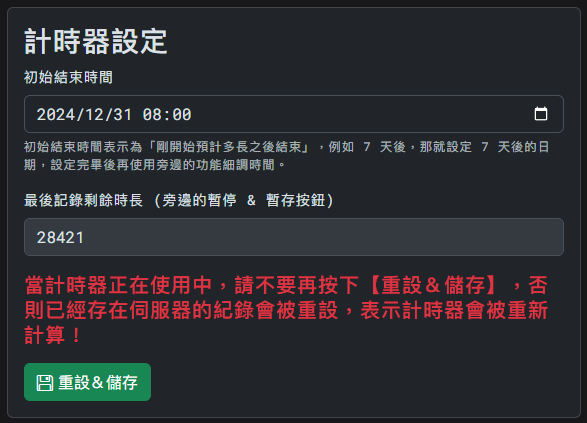
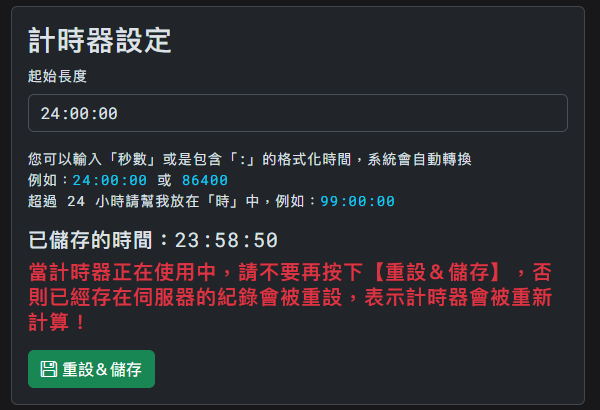
update timer start time

diff --git a/docs/features/timer.md b/docs/features/timer.md
@@ -24,11 +24,21 @@
 ![Image](/images/features/timer-6.png)
 
 ## 計時器設定
-【一定要先設定】初始結束時間  
-可以先設後面三天、七天、兩個禮拜，再用最左側的篡改時間進行微調。
 
-最後記錄剩餘時長 (旁邊的暫停 & 暫存按鈕)  
-這個數字只是顯示出來讓你們知道「現在伺服器中幫你儲存了幾秒剩餘時間」
+### 起始長度
+【一定要先設定】可以輸入 `時:分:秒` 的時間格式化，或是 `秒`。
+
+|格式|示範|格式|示範|
+|---|---|---|---|
+|時:分:秒|24:00:00|秒|86400|
+|時:分:秒|99:00:00|秒|356400|
+
+:::tip 
+如果輸入為 `秒`，平台會協助自動轉換為格式化時間 `時:分:秒`
+:::
+
+### 已儲存的時間
+顯示出來讓你們知道「現在伺服器中幫你儲存了多少剩餘時間」
 
 ![Image](/images/features/timer.png)
 
@@ -36,6 +46,10 @@
 他想要長怎樣，由你自己決定。  
 
 ![Image](/images/features/timer-2.png)
+
+:::tip 平台支援字體（輸入以下名稱即可）
+- jf open 粉圓 2.0
+:::
 
 ## 計時器規則
 加多少、減多少、自己設定。
